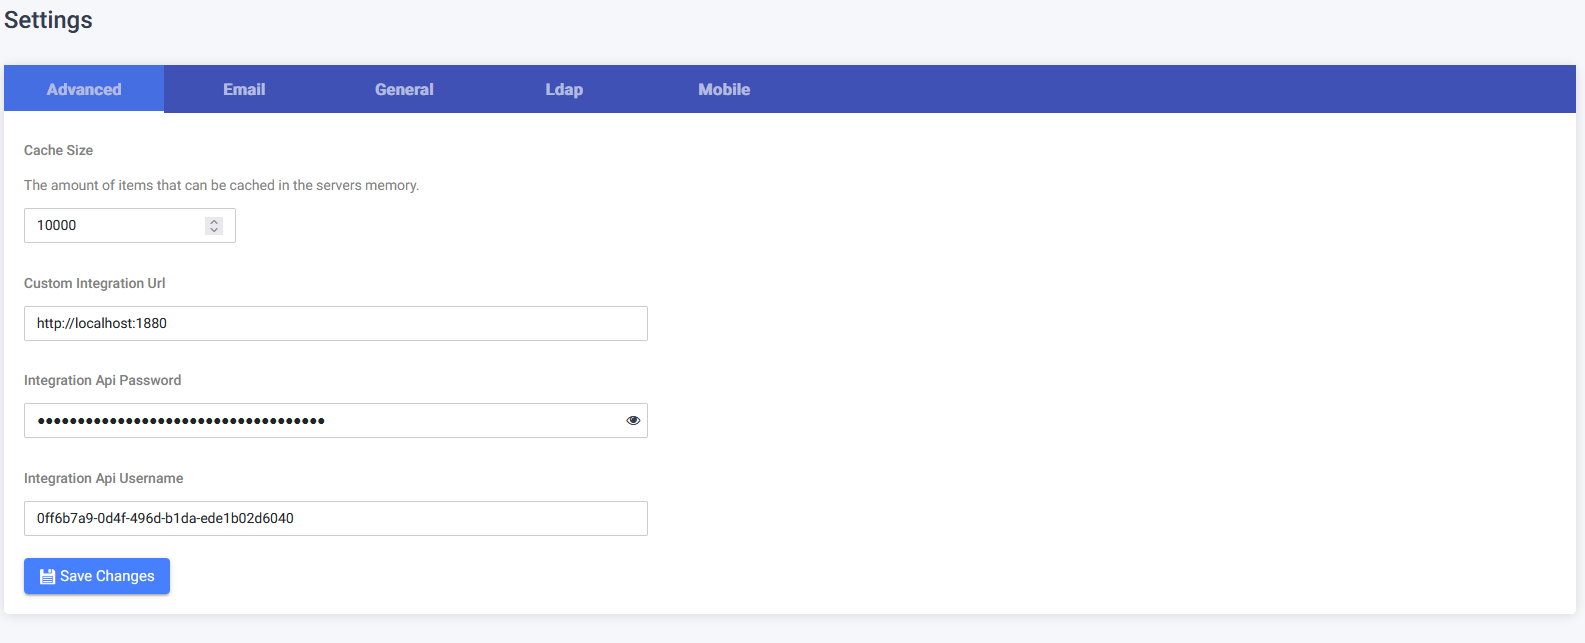
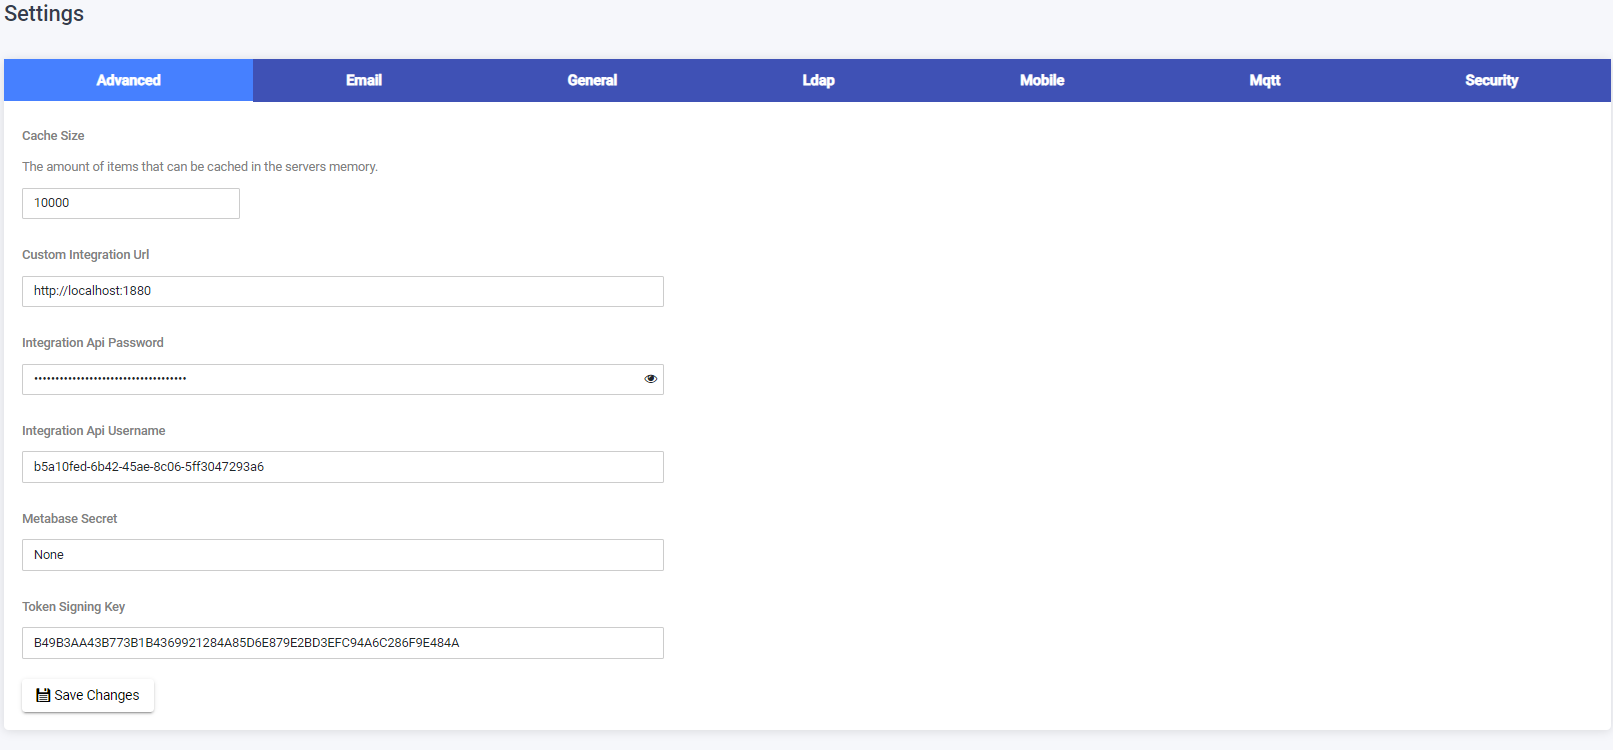
Added mqqt and security setting in adminstration

diff --git a/docs/user_manual/administration.md b/docs/user_manual/administration.md
@@ -1,3 +1,9 @@
+---
+runme:
+  id: 01HNMBYFV3QQW95RZ25E56ZMG1
+  version: v2.2
+---
+
 ## Settings Page
 
 The Settings Page provides various configuration options for the system.
@@ -42,3 +48,21 @@ To edit mobile reader settings, follow these steps:
 2. Edit the desired settings.
 3. Click the "Save" button to save the mobile reader settings.
    ![Alt text](../assets/images/administration/image-5.png)
+
+### Mqtt Settings
+
+To edit mqtt settings, follow these steps:
+
+1. On the Settings Page, locate the "Mqtt Settings" section.
+2. Edit the desired settings.
+3. Click the "Save" button to save the mqtt settings.
+   ![Alt text](../assets/images/administration/image-6.png)
+
+### Security Settings
+
+To edit security settings, follow these steps:
+
+1. On the Settings Page, locate the "Security Settings" section.
+2. Edit the desired settings.
+3. Click the "Save" button to save the security settings.
+   ![Alt text](../assets/images/administration/image-7.png)
